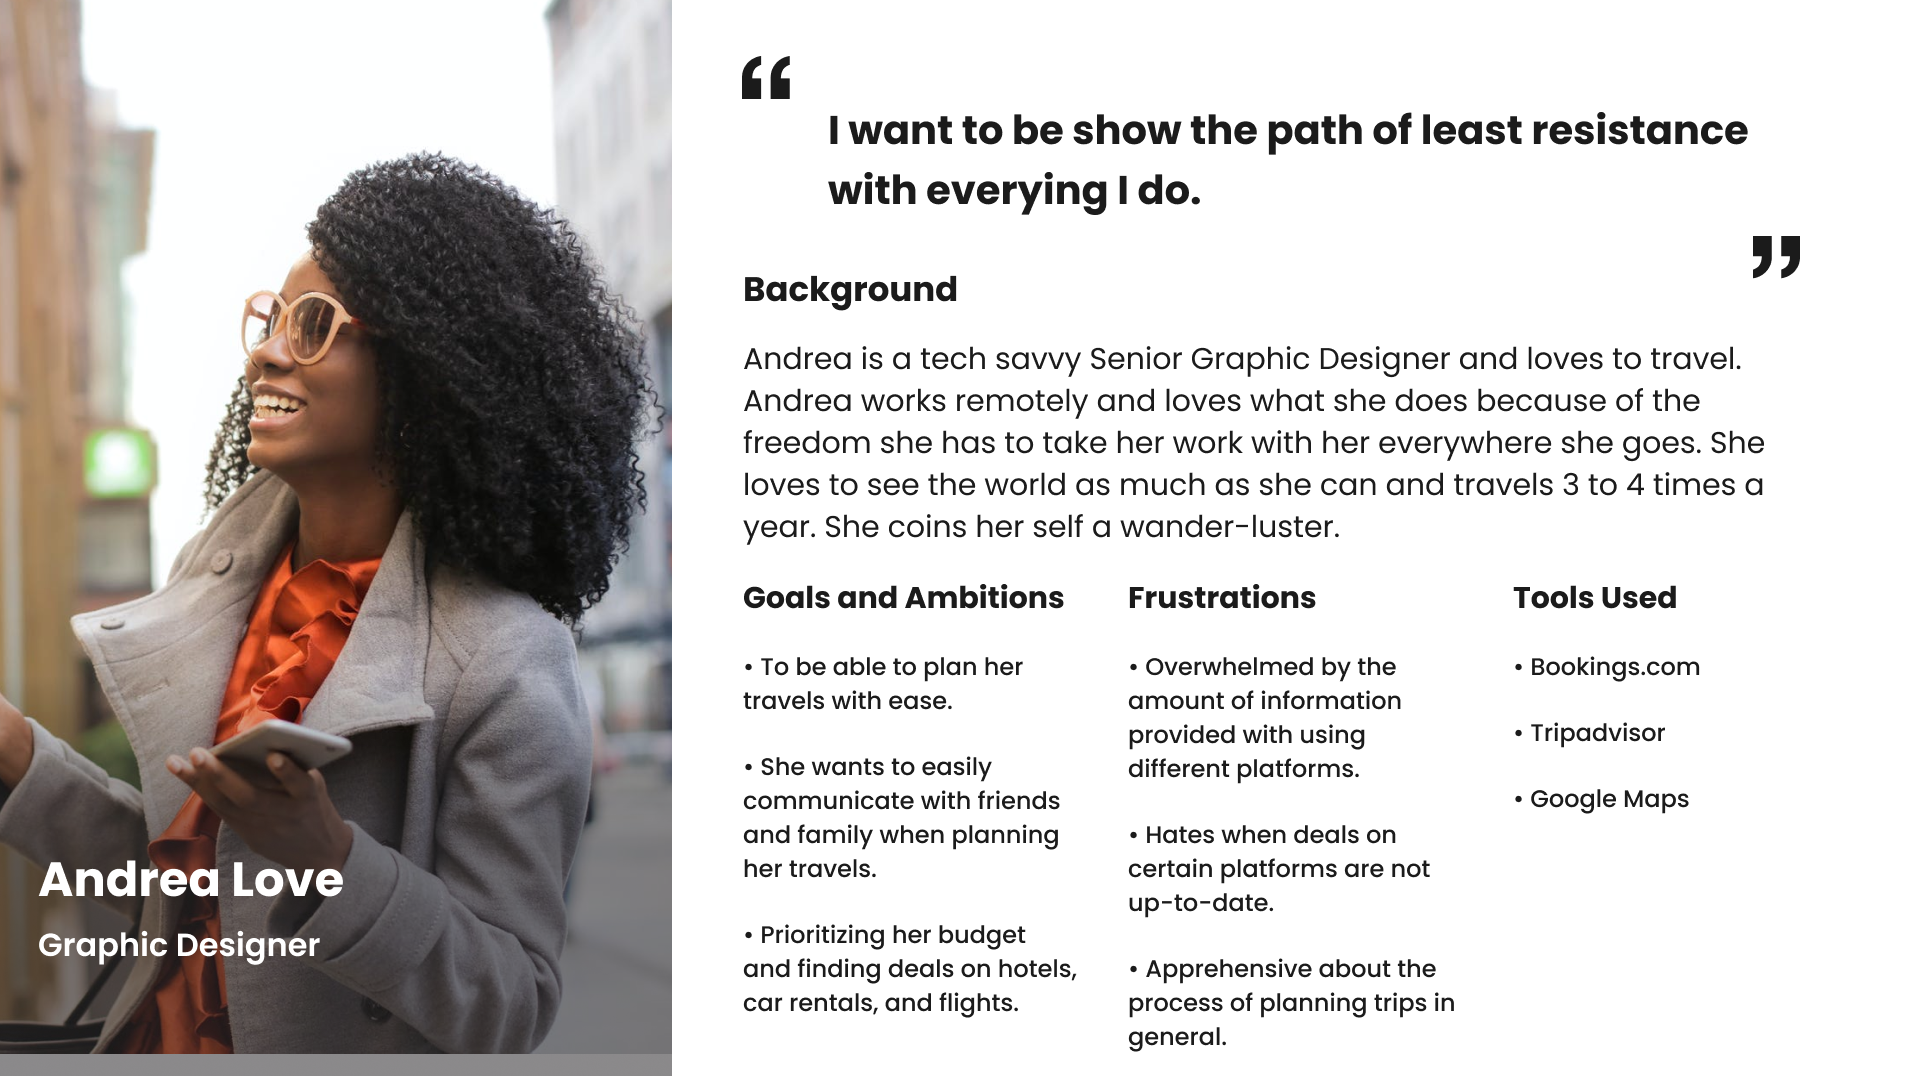
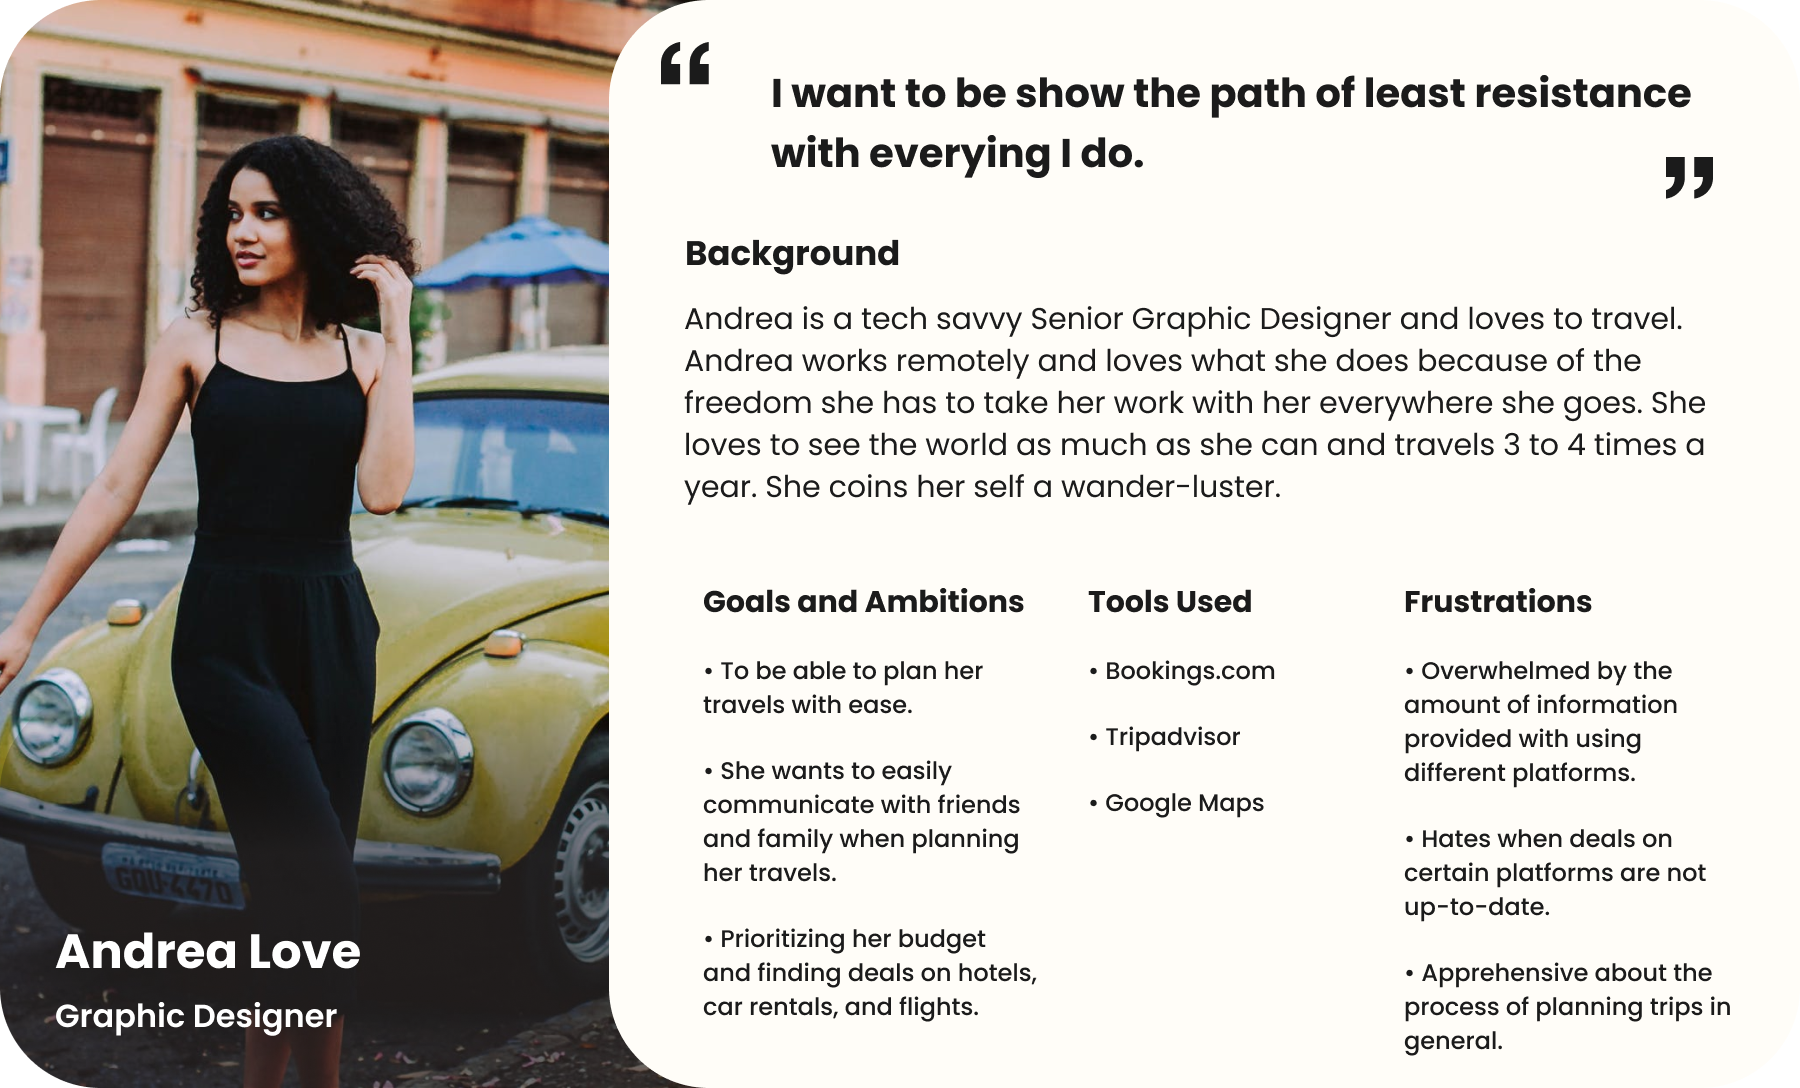
.

diff --git a/css/style.css b/css/style.css
@@ -328,14 +328,6 @@ height: 550px;
 border-radius: 40px;
 }
 
-/*.value-prop {
-    position: relative;
-    display: flex;
-    margin: auto;
-width: 1050px;
-height: 800px;
-border-radius: 40px;
-}*/
 
 .competitors {
     position: relative;
@@ -361,29 +353,29 @@ font-weight: normal;
 line-height: 50px;
 }
 
+
+
 .user {
     position: relative;
     display: flex;
     margin: auto;
-    float: left;
-    padding-left: 8%;
-    padding-bottom: 20%;
+    padding: 1%;
+    padding-bottom: 10%;
 width: 612px;
 height: 342px;
 top: 150px;
+z-index: 1;
 }
 
-.user2 {
+.photo-bg-2 {
     position: relative;
-    display: flex;
-    margin: auto;
-    float: right;
-    padding-right: 3%;
+    left: 30%;
+    margin-top: -20%;
 width: 612px;
 height: 342px;
-top: 150px;
+background: rgba(255, 222, 89, 0.4);
+border-radius: 30px;
 }
-
 
 
 p4 {
@@ -406,7 +398,7 @@ line-height: 30px;
     float: left;
     padding-right: 20%;
 height: 61px;
-top: 70px;
+top: -70px;
 right: 210px;
     font-family: "Mulish";
 font-style: normal;
@@ -418,12 +410,9 @@ line-height: 50px;
     position: relative;
     display: flex;
     margin: auto;
-    padding-right: 10%;
-    padding-left: 10%;
-    padding-bottom: 10%;
 width: 800px;
 height: 600px;
-top: 100px;
+top: -40px;
 border-radius: 45px;
 }
 

diff --git a/index.html b/index.html
@@ -130,11 +130,6 @@ To combat this problem, we can create an app that allows users to condense their
     I allowed users that I interviewed to collaborate on a Miro board by placing their input about what they like about planning trips, what they wish could be implemented better in a travel platform, and thoughts on what could be possible on a platform.
 </p3>
 
-<!--<img class="value-prop" src="images/value-prop.jpg">
-
-<p3>
-    I wanted to utilize the Value Proposition Canvas and delve deeper into how users make decisions when it comes to planning trips and why users plan their travels the way they do. Based on user's input, I gathered that many users 
-</p3>-->
 
 <img class="competitors" src="images/competitors.png">
 
@@ -143,10 +138,14 @@ To combat this problem, we can create an app that allows users to condense their
     User Personas
 </h2>
 
+
 <img class="user" src="images/AndreaLove.png">
+<div class="photo-bg-2"></div>
 
+<p3>
+    As a result from all the research, I curated a user persona that fit many of the characteristics and points users have made about planning a trip.
+</p3>
 
-<img class="user2" src="images/SamuelLews.png">
 
 <h2 class="story">
     Storyboard
